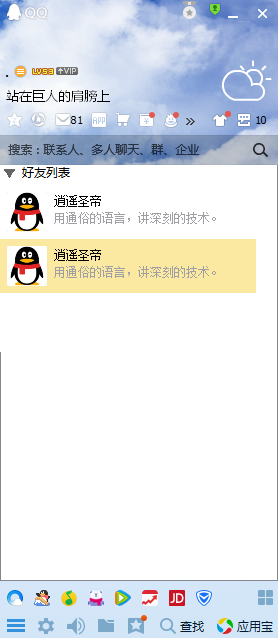
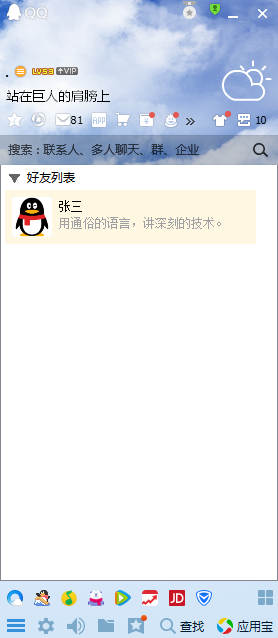
add contact_page

Changed region(s): [[0.0, 0.2382, 0.9209, 0.5361]]

diff --git a/Resources/LoginWindow/list.css b/Resources/LoginWindow/list.css
@@ -1,9 +1,10 @@
 QListWidget{  
-    background:white;  
+    background:transparent;
     color:black;  
     border:none;
-    width:278px;
+    width:100%;
     height:400px;
+    margin: 5px 0px 0px 5px;
 }  
   
 QListWidget::item{  
@@ -14,13 +15,11 @@ QListWidget::item{
 
 
 QListWidget::item:selected{
-    background:rgb(252,233,161);
+    background:rgba(252,233,161,0.3);
     color:black;
 }
 
-QScrollBar{
-    width:278px;
-}
+
 QScrollBar:vertical {                 
     background:transparent;  
     width:9px;  

diff --git a/personlist.cpp b/personlist.cpp
@@ -2,6 +2,7 @@
 #include <QAction>
 #include <QIcon>
 #include "personlistbuddy.h"
+#include "QDebug"
 personList::personList(QListWidget *parent) :
     QListWidget(parent)
 {
@@ -24,8 +25,8 @@ void personList::initMenu()
     QAction *delBuddy = new QAction("删除好友", this);
     //设置：
     groupNameEdit->setParent(this);  //设置父类
-    groupNameEdit->hide(); //设置初始时隐藏
     groupNameEdit->setPlaceholderText("好友列表");//设置初始时的内容
+    groupNameEdit->hide(); //设置初始时隐藏
     //布局：
     blankMenu->addAction(addGroup);
     groupMenu->addAction(delGroup);
@@ -41,10 +42,26 @@ void personList::initMenu()
     connect(delBuddy,SIGNAL(triggered()),this,SLOT(slotDelBuddy()));
     this->loadStyleSheet("list");
     this->slotAddGroup();
+    this->slotRenameEditFshed();
     this->slotAddBuddy();
 
 }
 //鼠标点击事件
+void personList::mouseDoubleClickEvent(QMouseEvent *event){
+    QListWidget::mouseDoubleClickEvent(event);
+    if(currentItem==NULL)                           //如果点击到的是空白处
+    {
+        return;
+    }
+    if(currentItem==groupMap.value(currentItem))    // 如果点击到的是组
+        return;
+    else{
+        //否则点击到的是好友
+        qDebug()<<"1";
+        this->contact.show();
+    }
+}
+
 void personList::mousePressEvent(QMouseEvent *event)
 {
     QListWidget::mousePressEvent(event); // 如果不调用基类mousePressEvent，item被select会半天不响应,调用父类，让QSS起效，因为QSS基于父类QListWidget，子类就是子窗口，就是最上层窗口，是覆盖在父窗口上的，所以先于父窗口捕获消息
@@ -92,8 +109,10 @@ void personList::contextMenuEvent(QContextMenuEvent *event)
     }
     if(currentItem==groupMap.value(currentItem))    // 如果点击到的是组
         groupMenu->exec(QCursor::pos());
-    else                                            //否则点击到的是好友
+    else{
+        //否则点击到的是好友
         personMenu->exec(QCursor::pos());
+    }
 }
 //添加组
 void personList::slotAddGroup()
@@ -107,7 +126,7 @@ void personList::slotAddGroup()
     groupNameEdit->setText(tr("好友列表")); //设置默认内容
     groupNameEdit->selectAll();        //设置全选
     groupNameEdit->setGeometry(this->visualItemRect(newItem).left()+15,this->visualItemRect(newItem).top()+1,this->visualItemRect(newItem).width(),this->visualItemRect(newItem).height()-2);//出现的位置
-    groupNameEdit->show();              //显示
+    groupNameEdit->show();             //显示
     groupNameEdit->setFocus();          //获取焦点
     currentItem = newItem;     // 因为要给group命名，所以当前的currentItem设为该group
 }
@@ -134,12 +153,12 @@ void personList::slotRename()
     groupNameEdit->setFocus();                        //获取焦点
 }
 
-//添加好友，主要是为了测试功能，实际工程里可以改成动态读取数据库进行添加好友
+//添加好友
 void personList::slotAddBuddy()
 {
     personListBuddy *buddy=new personListBuddy();   //创建一个自己定义的信息类
     buddy->headPath=":/Resources/LoginWindow/HeadImage.png";                          //设置头像路径
-    buddy->name->setText("逍遥圣帝");                  //设置用户名
+    buddy->name->setText("张三");                  //设置用户名
     buddy->sign->setText("用通俗的语言，讲深刻的技术。");   //设置个性签名
     QList<QListWidgetItem*> tem = groupMap.keys(currentItem);//当前组对应的项（包括组本身和好友）复制给tem
 

diff --git a/contact.cpp b/contact.cpp
@@ -1,0 +1,47 @@
+#include "contact.h"
+#include "ui_contact.h"
+#include <QtNetwork>
+
+Contact::Contact(QWidget *parent) :
+    QWidget(parent),
+    ui(new Ui::Contact)
+{
+    receiver = new QUdpSocket(this);
+    receiver->bind(12345, QUdpSocket::ShareAddress);
+    connect(receiver, &QUdpSocket::readyRead, this, &Contact::processPendingDatagram);
+
+    ui->setupUi(this);
+
+    sender = new QUdpSocket(this);
+}
+
+Contact::~Contact()
+{
+    delete ui;
+}
+
+void Contact::on_pushButton_clicked()
+{
+    QByteArray datagram = ui->textEdit->toPlainText().toUtf8();
+    ui->listWidget->addItem(datagram);
+    sender->writeDatagram(datagram.data(), datagram.size(),
+                          QHostAddress("127.0.0.1"), 23456);
+
+}
+void Contact::processPendingDatagram()
+{
+    // 拥有等待的数据报
+    while(receiver->hasPendingDatagrams())
+    {
+        QByteArray datagram;
+
+        // 让datagram的大小为等待处理的数据报的大小，这样才能接收到完整的数据
+        datagram.resize(receiver->pendingDatagramSize());
+
+        // 接收数据报，将其存放到datagram中
+        receiver->readDatagram(datagram.data(), datagram.size());
+        //ui->label->setText(datagram);
+        ui->listWidget->addItem(datagram);
+    }
+}
+

diff --git a/contact.h b/contact.h
@@ -1,0 +1,28 @@
+#ifndef CONTACT_H
+#define CONTACT_H
+
+#include <QWidget>
+class QUdpSocket;
+
+namespace Ui {
+class Contact;
+}
+
+class Contact : public QWidget
+{
+    Q_OBJECT
+
+public:
+    explicit Contact(QWidget *parent = 0);
+    ~Contact();
+private slots:
+    void on_pushButton_clicked();
+    void processPendingDatagram();
+
+private:
+    QUdpSocket *receiver;
+    QUdpSocket *sender;
+    Ui::Contact *ui;
+};
+
+#endif // CONTACT_H

diff --git a/README.md b/README.md
@@ -12,3 +12,7 @@
 
 ![主面板](/image/main.png)
 
+通信页
+
+![通信页](/image/contact.png)
+
